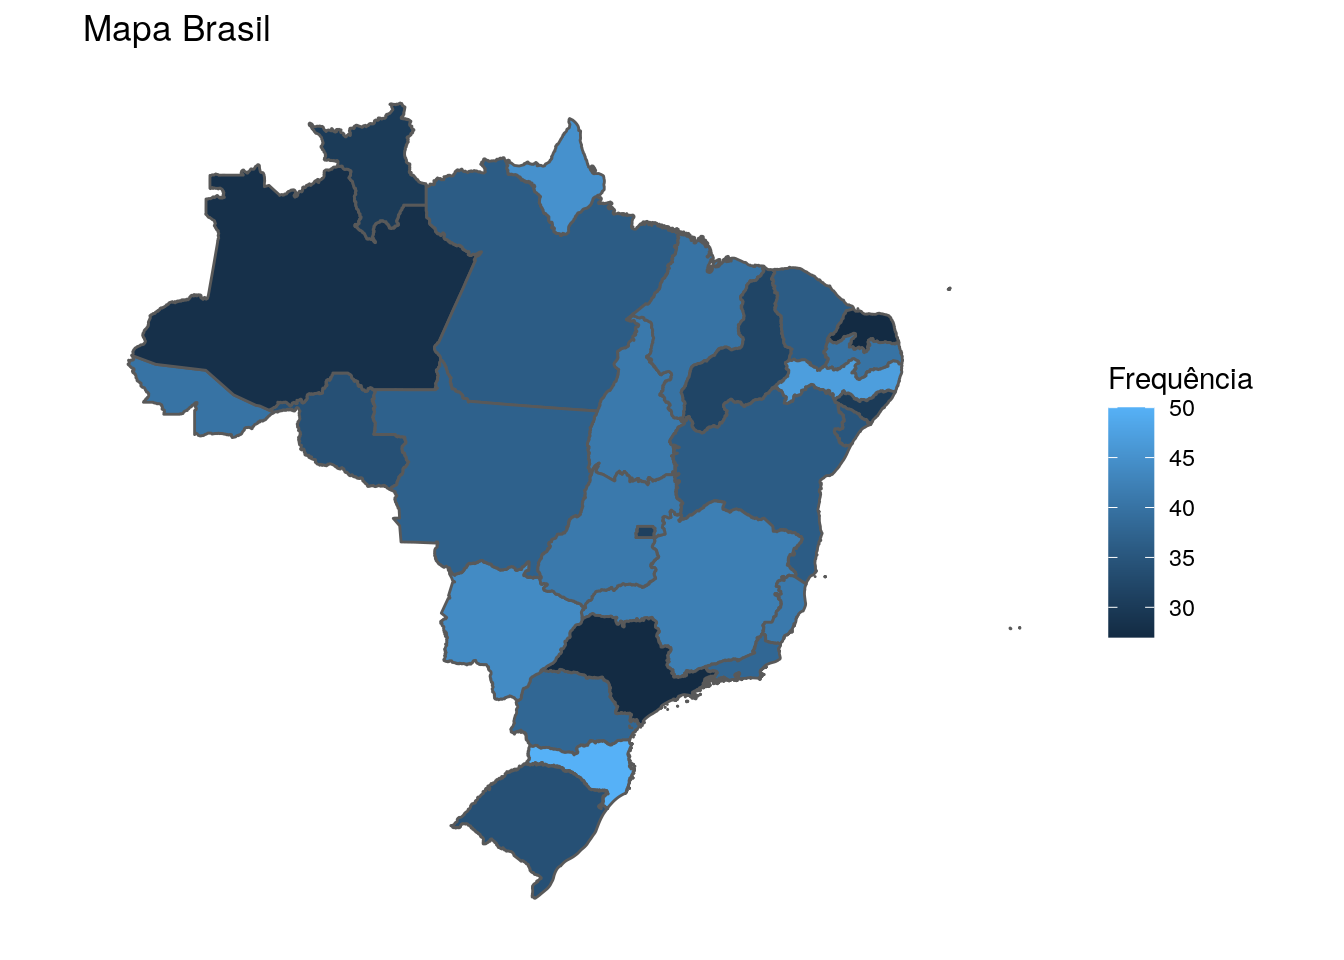
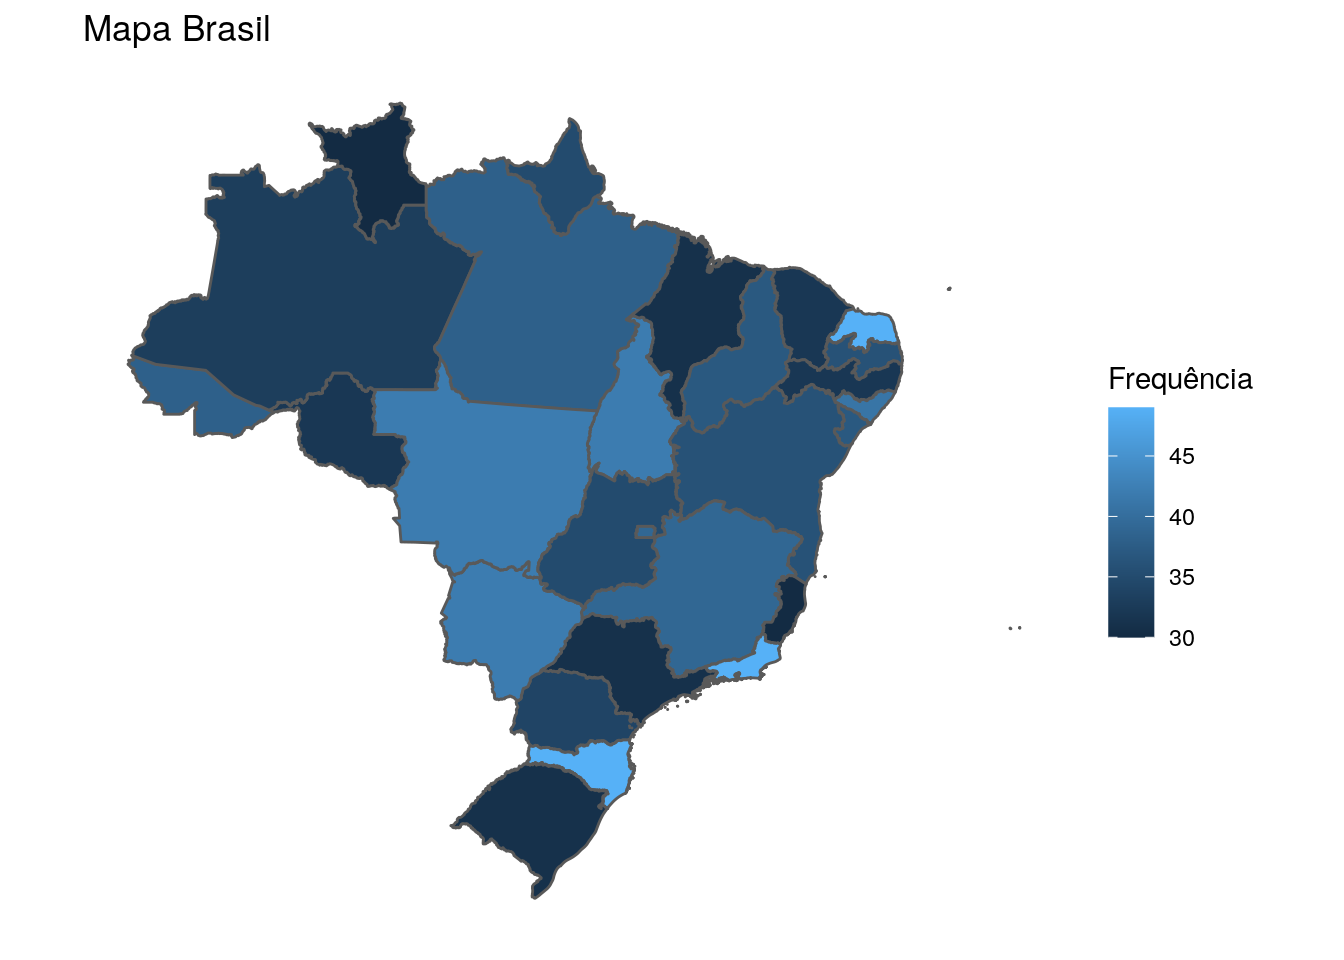
mapa-com-geobr

diff --git a/post/gerando-um-mapa-com-geobr-no-r/index.html b/post/gerando-um-mapa-com-geobr-no-r/index.html
@@ -137,9 +137,9 @@ amostra &lt;- sample(x = estados, size = 1000, replace = TRUE)
 table(amostra)</code></pre>
 <pre><code>## amostra
 ## AC AL AM AP BA CE DF ES GO MA MG MS MT PA PB PE PI PR RJ RN RO RR RS SC SE SP 
-## 40 30 28 45 36 36 31 41 41 40 42 44 37 36 40 47 32 38 38 27 34 30 34 50 35 27 
+## 38 41 33 35 36 32 39 30 35 31 39 42 42 38 36 32 37 34 49 49 32 30 31 49 37 31 
 ## TO 
-## 41</code></pre>
+## 42</code></pre>
 <p>Em geral ficou uma amostra uniforme, em torno da frequẽncia 35. Vamos agora chamar a biblioteca e gerar o mapa usando o <code>geobr</code>.</p>
 <pre class="r"><code># Instalando o &#39;geobr&#39;
 remotes::install_github(&quot;ipeaGIT/geobr&quot;, subdir = &quot;r-package&quot;)</code></pre>
@@ -184,11 +184,11 @@ dados_mapa %&gt;%
 <p>Criando um intervalo e fazendo o gráfico de acordo com a legenda criada:</p>
 <pre class="r"><code># Descobrindo o maximo e minimo para definir a quantidade de intervalos
 max(dados_mapa$n) # Calculando o máximo</code></pre>
-<pre><code>## [1] 50</code></pre>
+<pre><code>## [1] 49</code></pre>
 <pre class="r"><code>min(dados_mapa$n) # Calculando o mínimo</code></pre>
-<pre><code>## [1] 27</code></pre>
+<pre><code>## [1] 30</code></pre>
 <pre class="r"><code>max(dados_mapa$n) - min(dados_mapa$n) # Diferença</code></pre>
-<pre><code>## [1] 23</code></pre>
+<pre><code>## [1] 19</code></pre>
 <pre class="r"><code># Por questão de facilidade vamos dividir em 3 categorias:
 # 1 - Frequência de menos de 20;
 # 2 - Frequência de 20 a 30;
